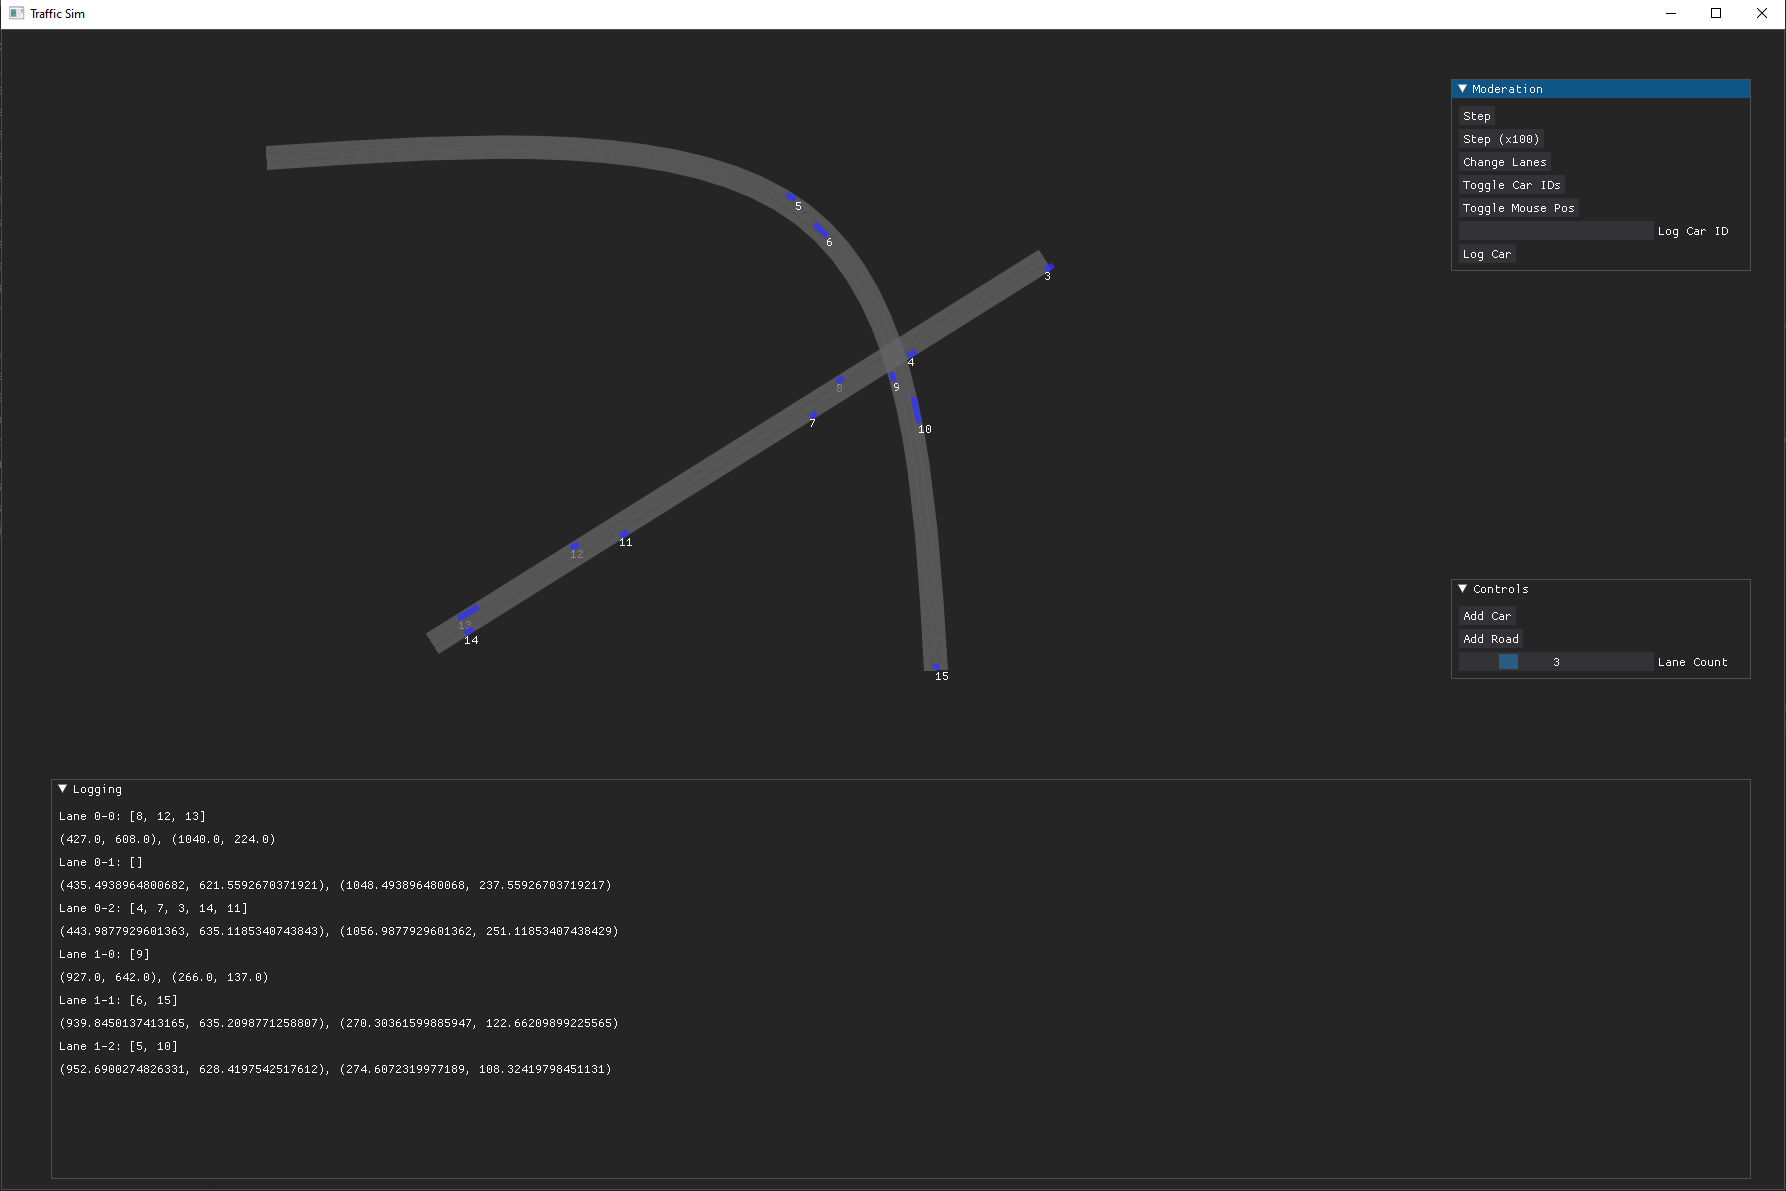
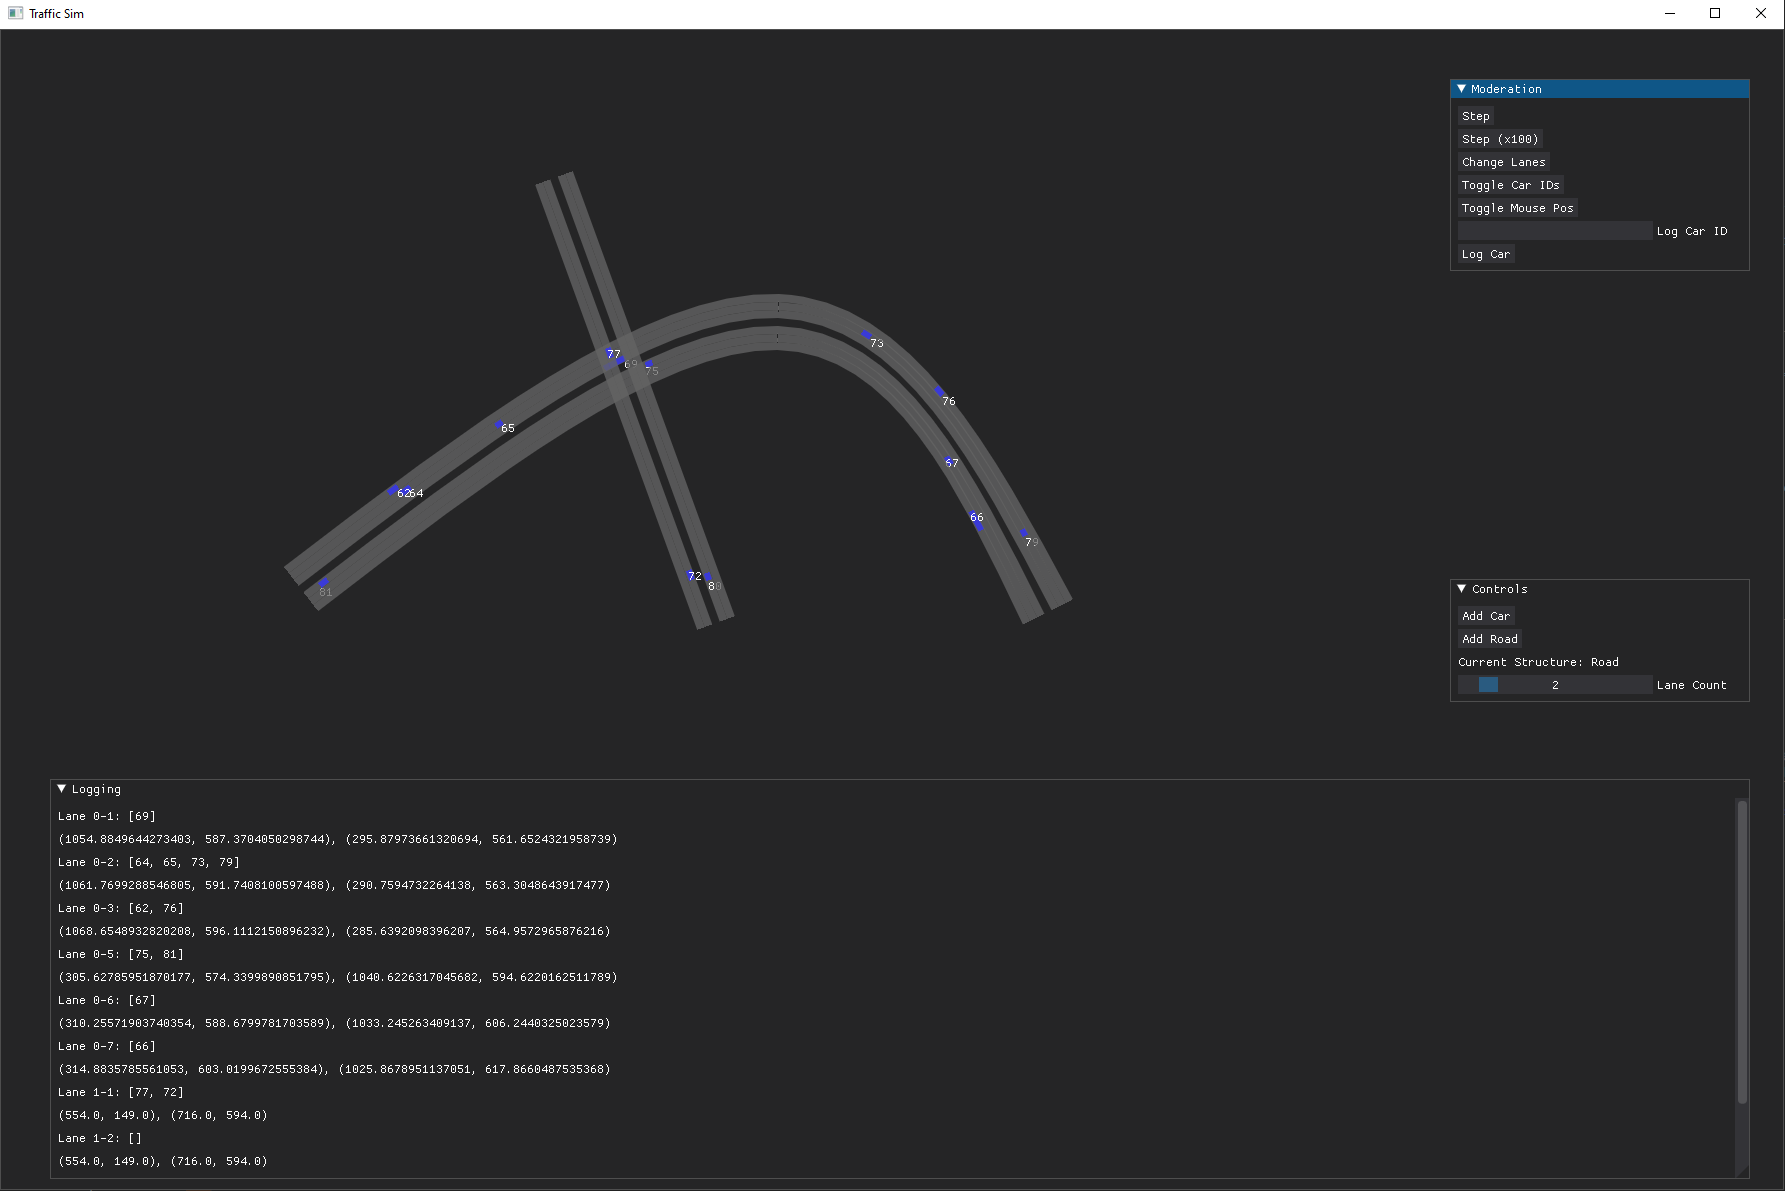
adjusting road structure for 2 way roads

diff --git a/road.py b/road.py
@@ -3,10 +3,11 @@ from bezier import Bezier, LinearBezier
 from parameters import *
 
 class Lane:
-    def __init__(self, path, road, beziers, left_lane=None, right_lane=None, lane_width=LANE_WIDTH):
+    def __init__(self, path, road, beziers, is_key=False, left_lane=None, right_lane=None, lane_width=LANE_WIDTH):
         self.path = path
         self.road = road
         self.beziers = beziers
+        self.is_key = is_key
 
         self.length = sum([bezier.arclength() for bezier in self.beziers])
         self.endpoints = path[0], path[-1]
@@ -46,36 +47,69 @@ class Road:
         self.orthonormal = get_orthonormal_vector(vec=self.unit_vec)
 
         # linkage to other classes
-        self.key_lane = Lane(path=self.path, road=self, beziers=self.beziers)
-        self.lanes = [self.key_lane]
+        self.key_lane = Lane(path=self.path, road=self, beziers=self.beziers, is_key=True)
+        self.forward_lanes = [None]
+        self.backward_lanes = [None]
 
-        if n_lanes > 1:
-            # compute the new lane data
-            key_points = path
-            key_tans = [bezier.tangent(0) for bezier in self.beziers]
-            key_tans.append(self.beziers[-1].tangent(1))
-            key_orthonorms = [get_orthonormal_vector(vec=key_tan) for key_tan in key_tans]
+        # compute the new lane data
+        key_points = path
+        key_tans = [bezier.tangent(0) for bezier in self.beziers]
+        key_tans.append(self.beziers[-1].tangent(1))
+        key_orthonorms = [get_orthonormal_vector(vec=key_tan) for key_tan in key_tans]
 
-            for i in range(1, n_lanes):
-                trans_d = [[k*i*LANE_WIDTH for k in key_orthonorm] for key_orthonorm in key_orthonorms]
-                trans_path = [[kx+kdx, ky+kdy] for (kx, ky), (kdx, kdy) in zip(key_points, trans_d)]
-                if len(trans_path) < 3:
-                    # cannot do b-spline interp - construct beziers directly
-                    trans_beziers = [LinearBezier(*(np.array(pt) for pt in trans_path))]
-                else:
-                    b_splines = cubic_spline_interpolation(trans_path)
-                    trans_beziers = []
-                    for P2, Q2, P1, Q1 in zip(b_splines[:-1], b_splines[1:], trans_path[:-1], trans_path[1:]):
-                        P2, Q2 = trisect_line_segment(P2, Q2)
-                        P1, Q1 = np.array(P1), np.array(Q1)
-                        bezier = Bezier(P1, P2, Q2, Q1)
-                        trans_beziers.append(bezier)
+        # forward lanes
+        for i in range(1, n_lanes+1):
+            trans_d = [[k*i*LANE_WIDTH for k in key_orthonorm] for key_orthonorm in key_orthonorms]
+            trans_path = [[kx+kdx, ky+kdy] for (kx, ky), (kdx, kdy) in zip(key_points, trans_d)]
+            if len(trans_path) < 3:
+                # cannot do b-spline interp - construct beziers directly
+                trans_beziers = [LinearBezier(*(np.array(pt) for pt in trans_path))]
+            else:
+                b_splines = cubic_spline_interpolation(trans_path)
+                trans_beziers = []
+                for P2, Q2, P1, Q1 in zip(b_splines[:-1], b_splines[1:], trans_path[:-1], trans_path[1:]):
+                    P2, Q2 = trisect_line_segment(P2, Q2)
+                    P1, Q1 = np.array(P1), np.array(Q1)
+                    bezier = Bezier(P1, P2, Q2, Q1)
+                    trans_beziers.append(bezier)
 
-                # recompute b_spline
-                lane = Lane(path=translate_coordinates(
-                    trans_path,
-                    self.orthonormal,
-                    scale=i*LANE_WIDTH), road=self, beziers=trans_beziers, left_lane=self.lanes[-1])
-                self.lanes[-1].right_lane = lane
-                self.lanes.append(lane)
-    
+            # recompute b_spline
+            lane = Lane(path=translate_coordinates(
+                trans_path,
+                self.orthonormal,
+                scale=i*LANE_WIDTH), road=self, beziers=trans_beziers, left_lane=self.forward_lanes[-1])
+            
+            if self.forward_lanes[-1]:
+                self.forward_lanes[-1].right_lane = lane
+            self.forward_lanes.append(lane)
+        
+        # backward lanes
+        for i in range(1, n_lanes+1):
+            trans_d = [[k*i*LANE_WIDTH for k in key_orthonorm] for key_orthonorm in key_orthonorms]
+            trans_path = [[kx-kdx, ky-kdy] for (kx, ky), (kdx, kdy) in zip(key_points, trans_d)][::-1]
+            if len(trans_path) < 3:
+                # cannot do b-spline interp - construct beziers directly
+                trans_beziers = [LinearBezier(*(np.array(pt) for pt in trans_path))]
+            else:
+                b_splines = cubic_spline_interpolation(trans_path)
+                trans_beziers = []
+                for P2, Q2, P1, Q1 in zip(b_splines[:-1], b_splines[1:], trans_path[:-1], trans_path[1:]):
+                    P2, Q2 = trisect_line_segment(P2, Q2)
+                    P1, Q1 = np.array(P1), np.array(Q1)
+                    bezier = Bezier(P1, P2, Q2, Q1)
+                    trans_beziers.append(bezier)
+
+            # recompute b_spline
+            lane = Lane(path=translate_coordinates(
+                trans_path,
+                self.orthonormal,
+                scale=i*LANE_WIDTH), road=self, beziers=trans_beziers, left_lane=self.backward_lanes[-1])
+            
+            if self.backward_lanes[-1]:
+                self.backward_lanes[-1].right_lane = lane
+            self.backward_lanes.append(lane)
+        
+        self.forward_lanes.pop(0)
+        self.backward_lanes.pop(0)
+        
+        self.lanes = self.backward_lanes + self.forward_lanes

diff --git a/window.py b/window.py
@@ -25,8 +25,9 @@ class Window:
         self.show_mouse_pos = False
 
         # visualization initialization
-        self.setup_dpg()
-        self.setup_canvas()
+        # rewriting this form to solve inheritence issue
+        Window.setup_dpg(self)
+        Window.setup_canvas(self)
 
 
     def draw_bezier(self, bezier):
@@ -150,6 +151,8 @@ class Window:
         # Render roads
         for road_id, road in enumerate(self.sim.roads):
             for lane_id, lane in enumerate(road.lanes):
+                if lane.is_key:
+                    continue
                 dpg.add_text(f'Lane {road_id}-{lane_id}: {[car_id for car_id in lane.cars.values()]}', parent='Logging')
                 # dpg.delete_item(f'Road {road_id}.{lane_id}')
                 (x1, y1), (x2, y2) = lane.endpoints
@@ -218,13 +221,19 @@ class InteractiveWindow(Window):
         self.active_action = None
         self.road_queue = []
 
+        self.build_wheel = ['Road', 'Junction']
+        self.build_wheel_idx = 0
+
+        self.setup_canvas()
+
+
 
     def setup_sim(self):
         self.sim = Simulation()
     
 
     def handle_add_road(self):
-        self.active_action = 'Road'
+        self.active_action = 'Build'
 
 
     # event handling
@@ -238,9 +247,21 @@ class InteractiveWindow(Window):
                 # right click
                 self.handle_right_click()
 
+    
+    def handle_key_press(self, sender, app_data):
+        match app_data:
+            case 65:
+                # a
+                self.build_wheel_idx = (self.build_wheel_idx - 1) % len(self.build_wheel)
+            case 68:
+                # d
+                self.build_wheel_idx = (self.build_wheel_idx + 1) % len(self.build_wheel)
+        
+        dpg.set_value('Current Structure', f'Current Structure: {self.build_wheel[self.build_wheel_idx]}')
+
 
     def handle_left_click(self):
-        if self.active_action == 'Road':
+        if self.active_action == 'Build':
             # wait until the canvas is focused into if it is not already
             # this is cruicial since the button to add a road is in a different window
             # if no wait, the first left click will show coordinates relative to the control window
@@ -255,10 +276,10 @@ class InteractiveWindow(Window):
             else:
                 # add to the road queue
                 self.road_queue.append(mouse_pos)
-                
+
     
     def handle_right_click(self):
-        if self.active_action == 'Road':
+        if self.active_action == 'Build':
             self.road_queue = []
             self.active_action = None
     
@@ -268,19 +289,21 @@ class InteractiveWindow(Window):
 
         if self.road_queue:
             with dpg.draw_node(tag=f'Draw Queue', parent='Canvas'):
-                for x, y in self.road_queue:
-                    self.draw_crosshair(x, y)
+                    for x, y in self.road_queue:
+                        self.draw_crosshair(x, y)
 
 
     def setup_canvas(self):
-        super().setup_canvas()
-
         with dpg.handler_registry(tag='Canvas Click Handler'):
             dpg.add_mouse_click_handler(callback=self.handle_canvas_click)
+        
+        with dpg.handler_registry(tag='Key Handler'):
+            dpg.add_key_press_handler(callback=self.handle_key_press)
         
         with dpg.window(label='Controls', tag='Controls', no_resize=True, no_close=True, pos=(CANVAS_WIDTH-350, 550), width=300):
             dpg.add_button(label='Add Car', callback=self.handle_add_car)
             dpg.add_button(label='Add Road', callback=self.handle_add_road)
+            dpg.add_text(f'Current Structure: {self.build_wheel[self.build_wheel_idx]}', tag='Current Structure')
             dpg.add_slider_int(label='Lane Count', tag='Lane Count', default_value=3, min_value=1, max_value=10, clamped=True)
 
 
